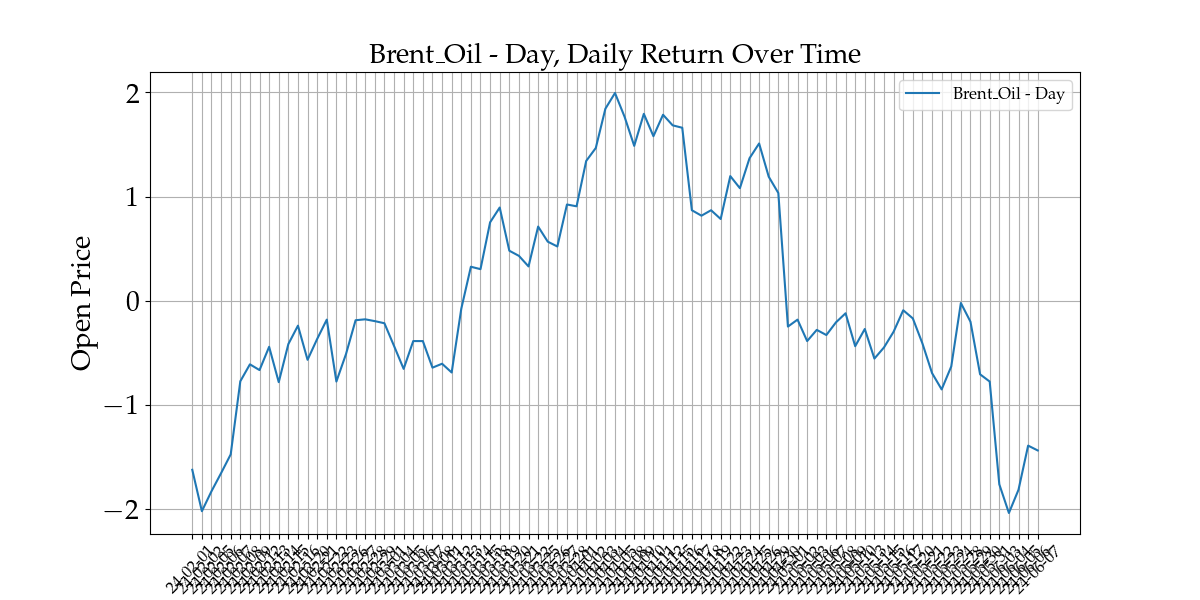
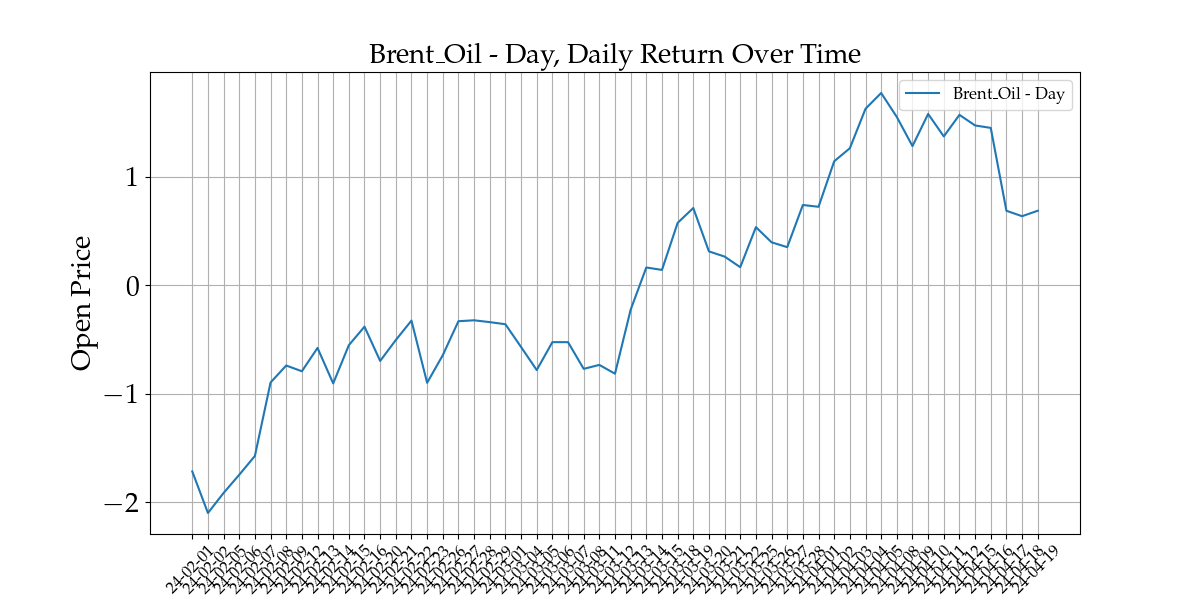
add USD Index
add USD Index

diff --git a/Multi-Input_GPR/test.py b/Multi-Input_GPR/test.py
@@ -40,14 +40,14 @@ def calculate_correlations(X, Y):
 def plot_2d_kernel_prediction(ax: Axes, kernel: gpflow.kernels.Kernel) -> None:
   
     data = {}
-    data_handler = DataHandler('2024-02-01', '2024-04-26', '2024-04-29', '2024-05-10')
+    data_handler = DataHandler('2024-02-01', '2024-03-26', '2024-03-29', '2024-04-19')
     X_AAPL_tf, Y_AAPL_tf, AAPL_dates, AAPL_mean, AAPL_std = data_handler.process_data("AAPL", "d", "close")
     data["d"] = (X_AAPL_tf, Y_AAPL_tf, AAPL_dates, AAPL_mean, AAPL_std)
 
-    X, X_Oil_tf, Y_Oil_tf, Oil_dates, oil_mean, oil_std = data_handler.process_2D_X("XAU_USD", "2024-02-01", "2024-05-10", "close")
+    X, X_tf, Y_tf, dates, mean, std = data_handler.process_2D_X("Brent_Oil", "2024-02-01", "2024-04-19", "close")
 
     visualizer = Visualizer()
-    visualizer.plot_data(X_Oil_tf, Y_Oil_tf, Oil_dates, title=f'XAU_USD - Day', mean=oil_mean, std=oil_std, filename=f'../plots/XAU_USD_Day.png')
+    visualizer.plot_data(X_tf, Y_tf, dates, title=f'Brent_Oil - Day', mean=mean, std=std, filename=f'../plots/Brent_Oil_Day.png')
 
     Y = Y_AAPL_tf
     model = gpflow.models.GPR(
@@ -66,50 +66,48 @@ def plot_2d_kernel_prediction(ax: Axes, kernel: gpflow.kernels.Kernel) -> None:
     print_summary(model)
 
 
-    X_2, X_tf_2, Y_tf_2, dates_2, mean_2, std_2 = data_handler.process_2D_X("XAU_USD",  "2024-05-13", "2024-06-10", "close")
+    X_2, X_tf_2, Y_tf_2, dates_2, mean_2, std_2 = data_handler.process_2D_X("Brent_Oil",  "2024-04-22", "2024-05-10", "close")
 
+    # Original data
+    X_1 = X_tf.numpy().reshape(-1)
+    X_2 = Y_tf.numpy().reshape(-1)
+
+    print(X_1.shape)
+    print(X_2.shape)
 
     n_grid = 20
 
     #Generate future dates, 20
-    Xplot_1 = np.linspace(100, 125, n_grid)
+    Xplot_1 = np.linspace(X_1.max(), X_1.max() + 20, n_grid)  # Assuming day of year continues
+    X1_combined = np.concatenate([X_1, Xplot_1])
     #Xplot_2 = np.linspace(-1.5, 1.5, n_grid)
     Xplot_2 = Y_tf_2.numpy().reshape(-1)
-    Xplot1, Xplot2 = np.meshgrid(Xplot_1, Xplot_2)
+    X2_combined = np.concatenate([X_2, Xplot_2])
 
-    print(Xplot1.shape)
-    print(Xplot2.shape)
+    X1_mesh, X2_mesh = np.meshgrid(X1_combined, X2_combined)
 
-    Xplot = np.stack([Xplot1, Xplot2], axis=-1)
-    Xplot = Xplot.reshape([n_grid * n_grid, 2])
+    # Prepare input for prediction
+    Xplot = np.column_stack([X1_mesh.ravel(), X2_mesh.ravel()])
 
 
-    X_all = np.vstack((X, Xplot))
+    f_mean_all, _ = model.predict_f(Xplot, full_cov=False)
+    f_mean_reshaped = f_mean_all.numpy().reshape(X1_mesh.shape)
 
-    f_mean_all, _ = model.predict_f(X_all, full_cov=False)
-
-    f_mean_original = f_mean_all[:len(X)]
-    f_mean_new = f_mean_all[len(X):].numpy().reshape((n_grid, n_grid))
-
-    print(f_mean_all.shape)
-
-    mse = np.mean((Y.numpy() - f_mean_original.numpy()) ** 2)
-
-    ax.plot_surface(Xplot1, Xplot2, f_mean_new, cmap="coolwarm", alpha=0.7)
-    scatter = ax.scatter(X[:, 0], X[:, 1], Y[:, 0], c=f_mean_original.numpy(), 
-                         cmap='coolwarm', s=50, edgecolors='black')
+    surface = ax.plot_surface(X1_mesh, X2_mesh, f_mean_reshaped, cmap="coolwarm", alpha=0.7)
+    scatter = ax.scatter(X[:, 0], X[:, 1], Y[:, 0], c=Y[:, 0], 
+                         cmap='gist_gray', s=50, edgecolors='black')
     
-    plt.colorbar(scatter, ax=ax, label='Predicted Value')
+    plt.colorbar(surface, ax=ax, label='Predicted Value', pad=0.1)
+    plt.colorbar(scatter, ax=ax, label='Actual Value', pad=0.15)
 
-    ax.set_title(f"Day, Gold Spot Price vs. Apple Stock Price\n"
+    ax.set_title(f"Day, US Dollar Price vs. Apple Stock Price\n"
                  f"Corr(X1,Y)={corr_X1Y:.4f}, Corr(X2,Y)={corr_X2Y:.4f}\n"
-                 f"MSE={mse:.4f}")
+                 )
     
     ax.set_xlabel('Day of Year')
-    ax.set_ylabel('Gold Spot Price')
+    ax.set_ylabel('US Dollar Index')
     ax.set_zlabel('Predicted APPL Price')
 
-    print(f"Mean Squared Error: {mse:.4f}")
 
 
 def plot_2d_kernel(kernel: gpflow.kernels.Kernel, save_path: str = None) -> None:
